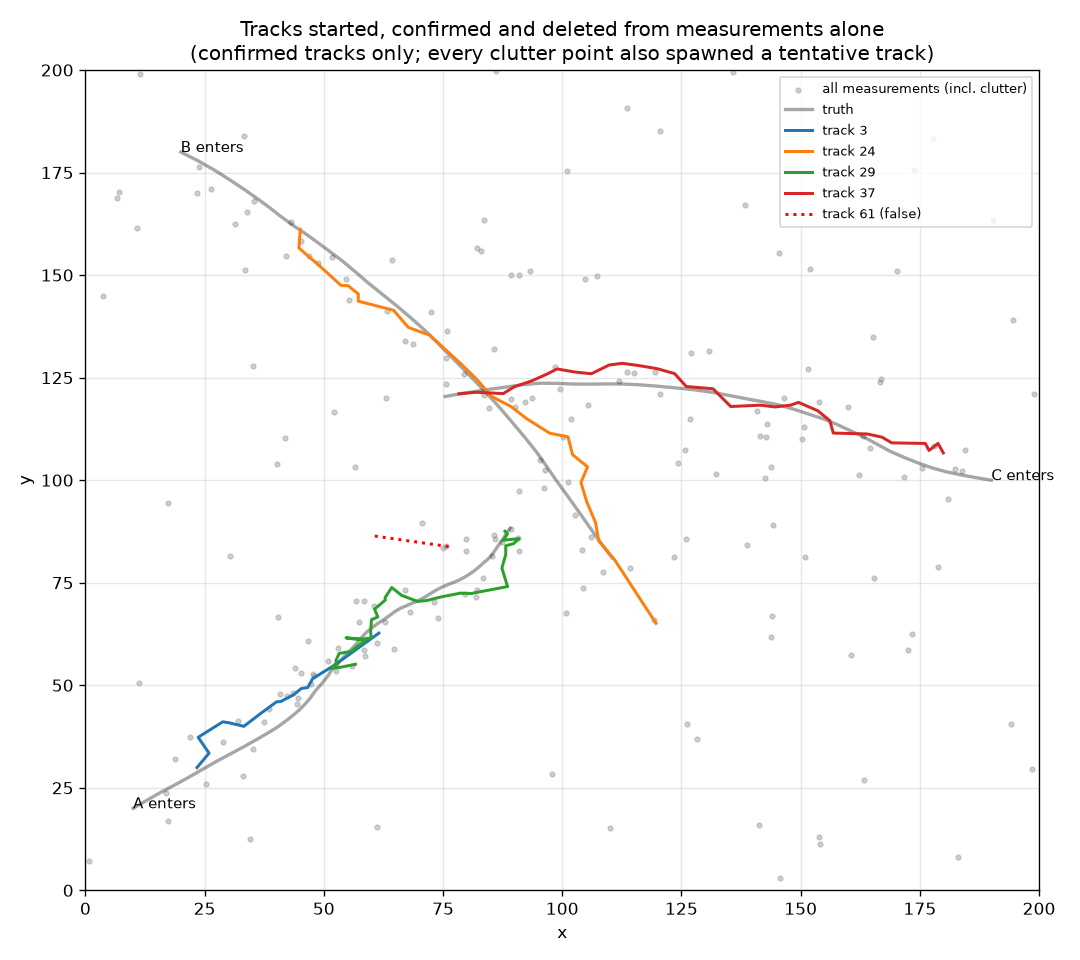
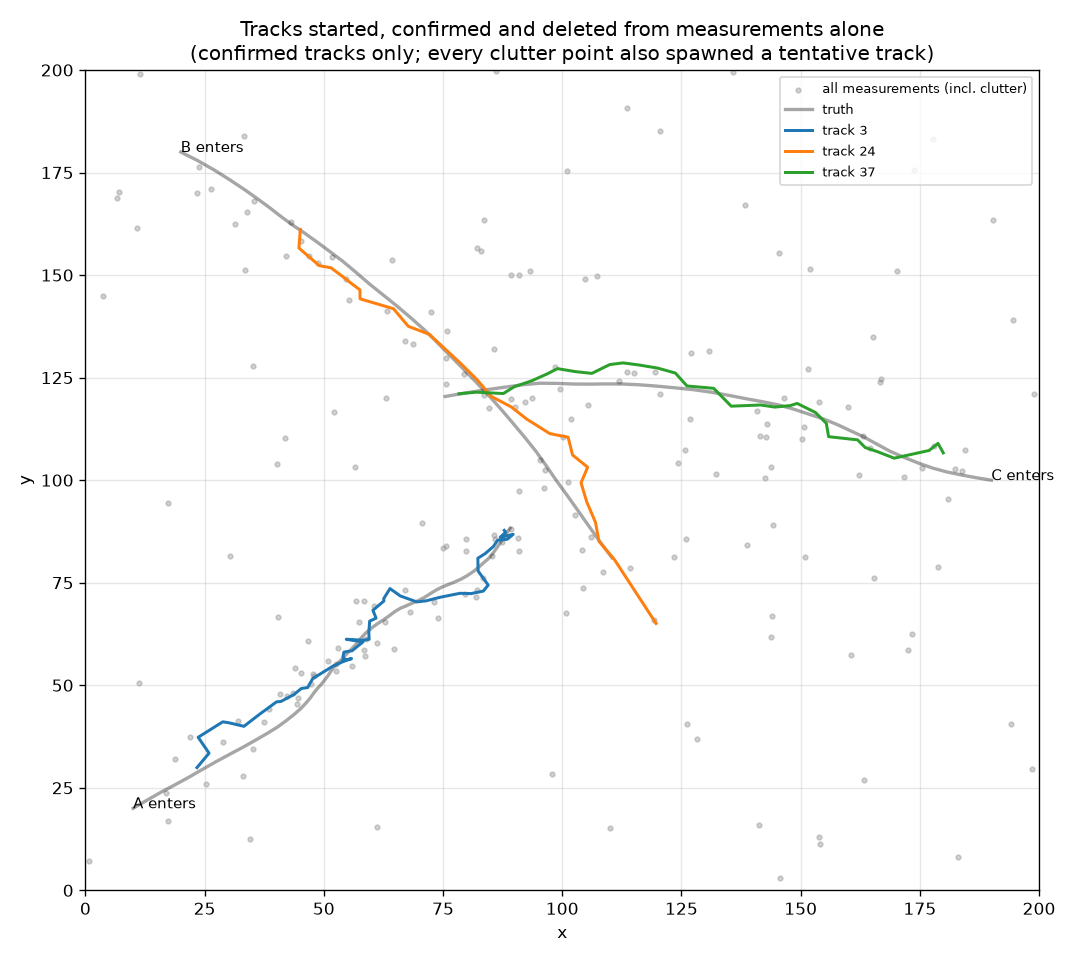
Give confirmed tracks first claim on measurements
Association now runs in two passes: confirmed tracks against every measurement,
then tentative tracks against whatever is left. Built because the Phase 4 demo
showed the failure, not in anticipation of it.

The failure, from the seeded run of lifecycle_demo.py at 2c57d47: at scan 17 a
clutter point sat nearer confirmed track 3's prediction than target A's own
measurement did (A's was 1.8 sigma out), so track 3 took the clutter and A's
measurement went unclaimed and started tentative track 29. At scan 18 both
tracks gated A's measurement -- track 3 at squared distance 4.2, inside its
gate, and track 29 at 0.1 -- and the joint assignment gave it to track 29.
Track 3 coasted out, and A changed ID for no reason. With confirmed tracks
choosing first, track 3 receives A's measurement at scan 18; in the new seeded
run it follows A for all 60 scans.

Across the demo's 20-seed sweep, before -> after:

  confirm_after  delete_tentative_after  false tracks/run  extra tracks/run
  3              1                       4.40 -> 2.45      0.55 -> 0.00
  3              2                       10.25 -> 6.60     0.90 -> 0.10
  4              1                       0.50 -> 0.15      0.45 -> 0.00
  4              2                       1.60 -> 0.50      0.55 -> 0.00

"Extra tracks" counts confirmed tracks beyond one per real target, i.e. ID
changes; the column is added to the demo's sweep in this commit, and the
"before" figures are that scoring applied to the 2c57d47 tracker. Mean
[…]

diff --git a/tracker.py b/tracker.py
@@ -28,12 +28,16 @@ sensor happens to miss it during its first few scans; the track then re-forms
 from the next detection under a new ID. Raising it trades faster clutter cleanup
 for fewer restarts, and lifecycle_demo.py shows both sides.
 
-KNOWN GAP: association treats tentative and confirmed tracks alike, so a
-clutter-spawned tentative track can compete with a confirmed track for a
-measurement in the assignment and occasionally win it. Real systems give
-confirmed tracks priority. Not built until a demo shows it happening -- but if a
-confirmed track inexplicably drops a measurement, this is the first suspect.
+CONFIRMED TRACKS CHOOSE FIRST. Association runs in two passes: confirmed tracks
+against every measurement, then tentative tracks against whatever is left. In a
+single joint assignment a tentative track can win a measurement a confirmed
+track needed -- typically when the confirmed track has just been pulled slightly
+off target and a track started from the target's own last measurement sits
+closer. The confirmed track then coasts out, and the target changes ID for no
+good reason. lifecycle_demo.py showed this happening before the change was made.
 """
+
+import numpy as np
 
 from association import associate
 from gating import CHI2_99_2D
@@ -77,17 +81,16 @@ class Tracker:
         """
         events = []
 
-        # 1. predict, associate, correct -- the Phase 3 scan, unchanged
+        # 1. predict, then associate in two passes: confirmed tracks take their
+        # pick, and tentative tracks compete only for what they left
         for track in self.tracks:
             track.predict()
 
-        matches, unmatched_tracks, unmatched_measurements = associate(
-            self.tracks, measurements, threshold=self.gate
-        )
-        for track_index, measurement_index in matches:
-            self.tracks[track_index].correct(measurements[measurement_index])
-        for track_index in unmatched_tracks:
-            self.tracks[track_index].correct(None)
+        confirmed = [t for t in self.tracks if t.status == "confirmed"]
+        tentative = [t for t in self.tracks if t.status == "tentative"]
+        unclaimed = np.arange(len(measurements))
+        unclaimed = self._assign(confirmed, measurements, unclaimed)
+        unclaimed = self._assign(tentative, measurements, unclaimed)
 
         # 2. promote tentative tracks with enough hits
         for track in self.tracks:
@@ -111,7 +114,7 @@ class Tracker:
         # 4. every measurement no track claimed starts a tentative track. These
         # are created after association, so they sit out this scan's predict
         # and first face a measurement on the next one.
-        for measurement_index in unmatched_measurements:
+        for measurement_index in unclaimed:
             track = Track(measurements[measurement_index],
                           track_id=self.next_id, **self.track_kwargs)
             self.next_id += 1
@@ -119,6 +122,27 @@ class Tracker:
             events.append(("created", track.id))
 
         return events
+
+    def _assign(self, tracks, measurements, candidates):
+        """Associate some tracks with some of the measurements, correct the
+        matched tracks and coast the rest.
+
+        Args:
+            tracks:       the tracks taking part in this pass.
+            measurements: this scan's full (n, 2) array.
+            candidates:   array of indices into measurements still unclaimed.
+
+        Returns:
+            The indices from candidates that no track in this pass took.
+        """
+        matches, unmatched_tracks, unmatched = associate(
+            tracks, measurements[candidates], threshold=self.gate
+        )
+        for track_index, j in matches:
+            tracks[track_index].correct(measurements[candidates[j]])
+        for track_index in unmatched_tracks:
+            tracks[track_index].correct(None)
+        return candidates[unmatched]
 
     @property
     def confirmed_tracks(self):

diff --git a/lifecycle_demo.py b/lifecycle_demo.py
@@ -110,11 +110,14 @@ def followed_target(record, truth):
 
 
 def score(truth, history):
-    """False confirmed tracks, and scans from each target's entry until a
-    track following it is confirmed."""
+    """False confirmed tracks, extra confirmed tracks on real targets (a target
+    followed by two tracks over the run changed ID once), and scans from each
+    target's entry until a track following it is confirmed."""
     confirmed = {tid: r for tid, r in history.items() if "confirmed" in r}
     labels = {tid: followed_target(r, truth) for tid, r in confirmed.items()}
     false_tracks = sum(1 for name in labels.values() if name is None)
+    followed = [name for name in labels.values() if name is not None]
+    extra_tracks = len(followed) - len(set(followed))
 
     delays = []
     for name, (first, _, _) in truth.items():
@@ -122,7 +125,7 @@ def score(truth, history):
                          for tid, n in labels.items() if n == name]
         if confirm_scans:
             delays.append(min(confirm_scans) - first)
-    return false_tracks, delays, labels
+    return false_tracks, extra_tracks, delays, labels
 
 
 def print_event_log(truth, history, labels):
@@ -150,25 +153,27 @@ def print_event_log(truth, history, labels):
     print(f"\n{len(history)} tracks created in all; {len(tentative)} were never "
           f"confirmed.")
     print(f"Of those, {len(lifetimes)} were deleted, after at most "
-          f"{max(lifetimes)} scan(s); {still_alive} were still tentative when "
-          f"the run ended.")
+          f"{max(lifetimes)} scan(s). Still tentative when the run ended: "
+          f"{still_alive}.")
 
 
 def print_sweep(seeds=range(20)):
     print(f"\nThreshold sweep, {len(seeds)} seeds per row:\n")
-    print("  confirm_after  delete_tentative_after  "
-          "false tracks/run  scans to confirm (mean, max)")
+    print("  confirm_after  delete_tentative_after  false tracks/run  "
+          "extra tracks on real targets/run  scans to confirm (mean, max)")
     for confirm_after in (3, 4):
         for delete_tentative_after in (1, 2):
-            false_counts, all_delays = [], []
+            false_counts, extra_counts, all_delays = [], [], []
             for seed in seeds:
                 truth, _, history = simulate(seed, confirm_after,
                                              delete_tentative_after)
-                false_tracks, delays, _ = score(truth, history)
+                false_tracks, extra_tracks, delays, _ = score(truth, history)
                 false_counts.append(false_tracks)
+                extra_counts.append(extra_tracks)
                 all_delays += delays
             print(f"  {confirm_after:13d}  {delete_tentative_after:22d}  "
                   f"{np.mean(false_counts):16.2f}  "
+                  f"{np.mean(extra_counts):32.2f}  "
                   f"{np.mean(all_delays):10.2f}, {max(all_delays):2d}")
 
 
@@ -207,7 +212,7 @@ def plot(truth, scans, history, labels):
 def main():
     truth, scans, history = simulate(seed=7, confirm_after=4,
                                      delete_tentative_after=1)
-    _, _, labels = score(truth, history)
+    _, _, _, labels = score(truth, history)
     print_event_log(truth, history, labels)
     print_sweep()
     plot(truth, scans, history, labels)

diff --git a/test_tracker.py b/test_tracker.py
@@ -96,6 +96,29 @@ def test_ids_are_never_reused():
     assert [t.id for t in tracker.tracks] == [2]
 
 
+def test_a_confirmed_track_keeps_a_measurement_a_tentative_track_wants():
+    """The failure lifecycle_demo.py showed: a newer tentative track sits
+    closer to a measurement than the confirmed track that needs it.
+
+    Track 1 is confirmed at the origin on scan 1, and that scan's second point,
+    at (6, 0), starts tentative track 2. On scan 2 a single measurement lands at
+    (5, 0): far nearer track 2's prediction, but inside track 1's gate. In one
+    joint assignment track 2 takes it. With confirmed tracks choosing first,
+    track 1 does, and track 2 -- having missed -- is deleted.
+    """
+    tracker = Tracker(confirm_after=2)
+    tracker.step(HERE)
+    tracker.step(np.array([[0.0, 0.0], [6.0, 0.0]]))
+    assert [(t.id, t.status) for t in tracker.tracks] == [
+        (1, "confirmed"), (2, "tentative")]
+
+    events = tracker.step(np.array([[5.0, 0.0]]))
+
+    assert events == [("deleted", 2)], f"got {events}"
+    assert [t.id for t in tracker.tracks] == [1]
+    assert tracker.tracks[0].misses == 0, "track 1 should have been updated"
+
+
 def test_an_empty_scan_on_an_empty_tracker():
     tracker = Tracker()
     assert tracker.step(NOTHING) == []
@@ -111,5 +134,6 @@ if __name__ == "__main__":
     test_confirmed_track_survives_until_delete_confirmed_after_misses()
     test_isolated_clutter_never_confirms()
     test_ids_are_never_reused()
+    test_a_confirmed_track_keeps_a_measurement_a_tentative_track_wants()
     test_an_empty_scan_on_an_empty_tracker()
     print("all tests passed")

diff --git a/README.md b/README.md
@@ -118,40 +118,54 @@ and adds two false alarms per scan on average, scattered uniformly. No track is
 seeded by hand. Every measurement that no track claims starts a tentative track;
 a tentative track is confirmed after a set number of hits and deleted on its
 first miss; a confirmed track is deleted after five misses in a row.
+Association runs confirmed tracks first, and tentative tracks compete only for
+the measurements left over.
 
-In the seeded run, 76 tracks are created. Five are confirmed, one of which
-follows nothing and is deleted five scans after confirmation. The other 71 are
-never confirmed, and every one that ended within the run was deleted within three
-scans. None of the false tracks persists.
+In the seeded run, 76 tracks are created. Three are confirmed, one per target,
+and each follows its target for as long as the target is present; B's track is
+deleted five scans after B leaves. The other 73 are never confirmed, and every
+one that ended within the run was deleted within three scans. B also shows the
+cost of deleting tentative tracks on their first miss: the sensor missed B on
+scans 11 and 14, each miss removed the tentative track B had started, and B was
+confirmed only at scan 18, eight scans after it entered.
 
 ![lifecycle result](lifecycle_result.png)
 
 One run cannot show a tradeoff, so the demo also sweeps the two thresholds over
 20 seeds:
 
-| confirm_after | delete_tentative_after | False tracks per run | Scans to confirm (mean, max) |
-|---|---|---|---|
-| 3 | 1 | 4.40 | 3.37, 12 |
-| 3 | 2 | 10.25 | 3.57, 12 |
-| 4 | 1 | 0.50 | 4.93, 13 |
-| 4 | 2 | 1.60 | 4.72, 13 |
+| confirm_after | delete_tentative_after | False tracks per run | Extra tracks on real targets per run | Scans to confirm (mean, max) |
+|---|---|---|---|---|
+| 3 | 1 | 2.45 | 0.00 | 3.20, 10 |
+| 3 | 2 | 6.60 | 0.10 | 3.48, 11 |
+| 4 | 1 | 0.15 | 0.00 | 4.70, 11 |
+| 4 | 2 | 0.50 | 0.00 | 4.60, 12 |
+
+An extra track on a real target means the target changed track ID during the
+run.
 
 The number of hits required to confirm is the setting that controls false
-tracks: moving from three to four cuts them by a factor of about nine, at a cost
-of roughly one and a half scans of delay. Letting a tentative track survive one
-miss was expected to reduce restarts on real targets. At this detection
-probability it barely changes confirmation delay, and it doubles or triples the
-false tracks, because clutter-seeded tracks live long enough to find more
-clutter.
+tracks: moving from three to four cuts them by a factor of about sixteen, at a
+cost of roughly one and a half scans of delay. Letting a tentative track survive
+one miss was expected to reduce restarts on real targets. At this detection
+probability it shortens mean confirmation delay by at most 0.1 scans and lengthens
+it at three hits, and it roughly triples the false tracks, because clutter-seeded
+tracks live long enough to find more clutter.
 
-Two limitations are known. A new track's velocity prior, inherited from the
+Giving confirmed tracks first claim on measurements was added after the demo
+showed the problem it solves. With all tracks competing equally, a clutter
+point pulled target A's track slightly off course at scan 17, a tentative track
+started from A's own measurement won the next one, and A changed track ID. Across
+the 20 seeds, equal competition left between 0.45 and 0.90 extra tracks per run
+on real targets; confirmed-first leaves at most 0.10. It also reduces false
+tracks by between a third and two thirds, depending on the thresholds. The
+equal-competition figures are from the Phase 4 tracker (commit 2c57d47), scored
+with the same sweep and the same seeds.
+
+One limitation is known. A new track's velocity prior, inherited from the
 single-target filter, is wide (a standard deviation of about 22 units per scan
 against target speeds between 3 and 4), so a new track's gate is large on its
-second scan and readily catches clutter. And association treats tentative and
-confirmed tracks alike, so a tentative track can take a measurement a confirmed
-track needed. In the seeded run this is why target A changes track ID at scan
-17: a clutter point pulled track 3 off the target, and on the next scan a newly
-started tentative track won A's measurement from it.
+second scan and readily catches clutter.
 
 ## Deliberately not built yet
 
